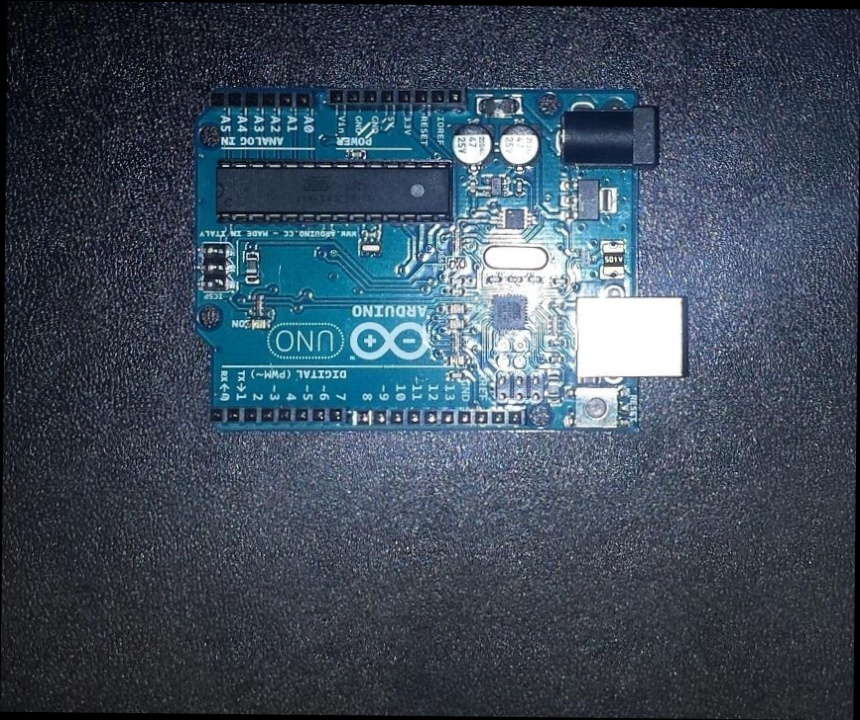
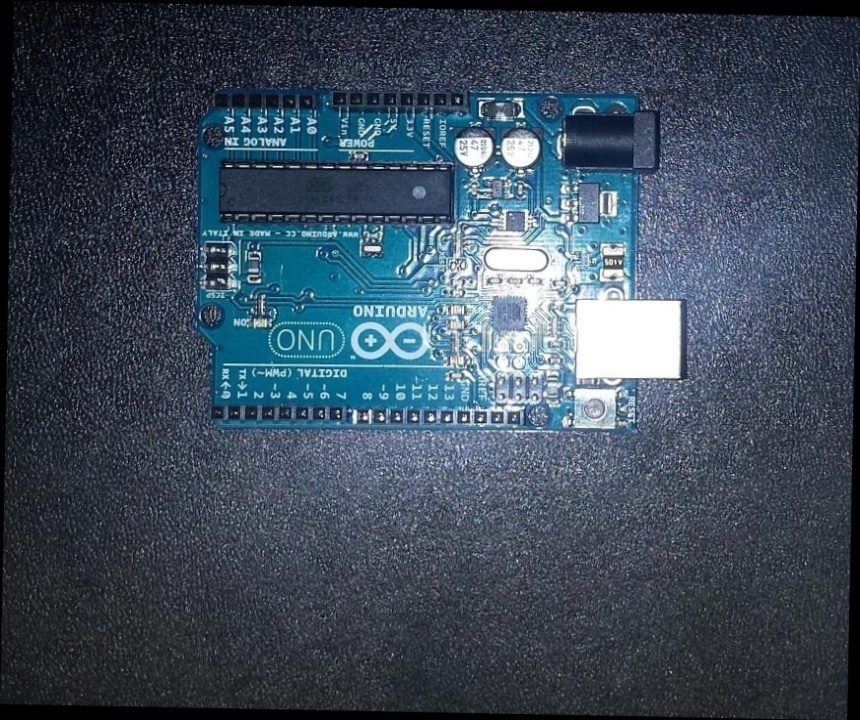
Fix angle and other bugs

diff --git a/rotateImage.py b/rotateImage.py
@@ -42,11 +42,13 @@ def getMatches(img1, img2):
         currentMatch = {
             'pt1': {
                 'x': keyPoint1.pt[0],
-                'y': keyPoint1.pt[1]
+                'y': keyPoint1.pt[1],
+                'angle': keyPoint1.angle
             },
             'pt2': {
                 'x': keyPoint2.pt[0],
-                'y': keyPoint2.pt[1]
+                'y': keyPoint2.pt[1],
+                'angle': keyPoint2.angle
             }
         }
 
@@ -74,29 +76,30 @@ def getRotationAngle(matches):
     point2BX = matches[1]['pt2']['x']
     point2BY = matches[1]['pt2']['y']
 
-    m1 = ((point1BY - point1AY) / (point1BX - point1AX))
-    line1Angle = math.atan(m1)
+    angle1 = matches[0]['pt1']['angle']
+    angle2 = matches[0]['pt2']['angle']
 
-    m2 = ((point2BY - point2AY) / (point2BX - point2AX))
-    line2Angle = math.atan(m2)
-    
-    rotationAngle = line2Angle - line1Angle
+    # m1 = ((point1BY - point1AY) / (point1BX - point1AX))
+    # line1Angle = math.atan(m1)
+    #
+    # m2 = ((point2BY - point2AY) / (point2BX - point2AX))
+    # line2Angle = math.atan(m2)
+    #
+    # rotationAngle = line2Angle - line1Angle
+    #
+    # rotationAngle = np.rad2deg(rotationAngle)
 
-    rotationAngle = np.rad2deg(rotationAngle)
-
-    return(rotationAngle)
+    return angle2 - angle1
 
 
 rotationAngle = getRotationAngle(matches)
 
-
-
-# print(rotationAngle)
+print(rotationAngle)
 
 
 def getDiameter(img):
     h, w = np.shape(img)[:2]
-    hyp = (w*w + h*h)**(1/2)
+    hyp = (w*w + h*h)**(1/2.0)
     return(int(hyp)+1)
 
 def addBorders(img):
@@ -109,7 +112,7 @@ def addBorders(img):
 
     y2, x2 = np.shape(img)[:2]
     cx2 = x2/2
-    cy2 = y2/2 
+    cy2 = y2/2
 
     mask[int(cy-cy2):int(cy+cy2) , int(cx-cx2):int(cx+cx2)] = img[0:y2, 0:x2]
 
@@ -167,9 +170,14 @@ def scaleImage(img1, img2):
     y1, x1 = np.shape(img1)[:2]
     y2, x2 = np.shape(img2)[:2]
 
+    x1 = float(x1)
+    y1 = float(y1)
+    x2 = float(x2)
+    y2 = float(y2)
+
     if x1 >= x2:
         scaleW = x2/x1
-        w = x1 
+        w = x1
     else:
         scaleW = x1/x2
         w = x2
